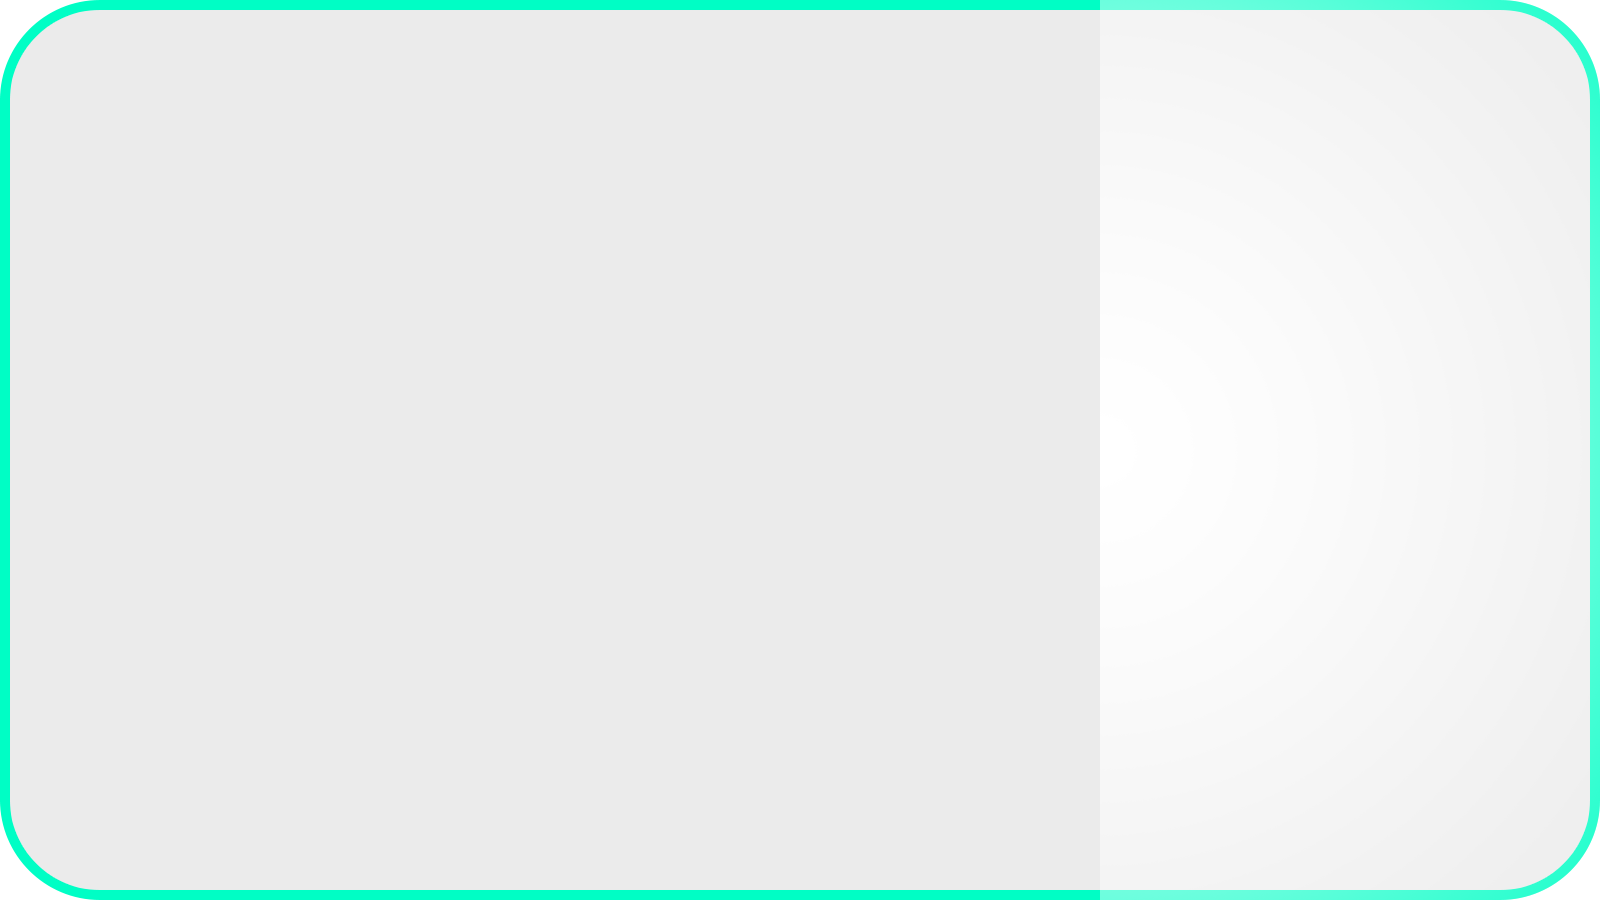
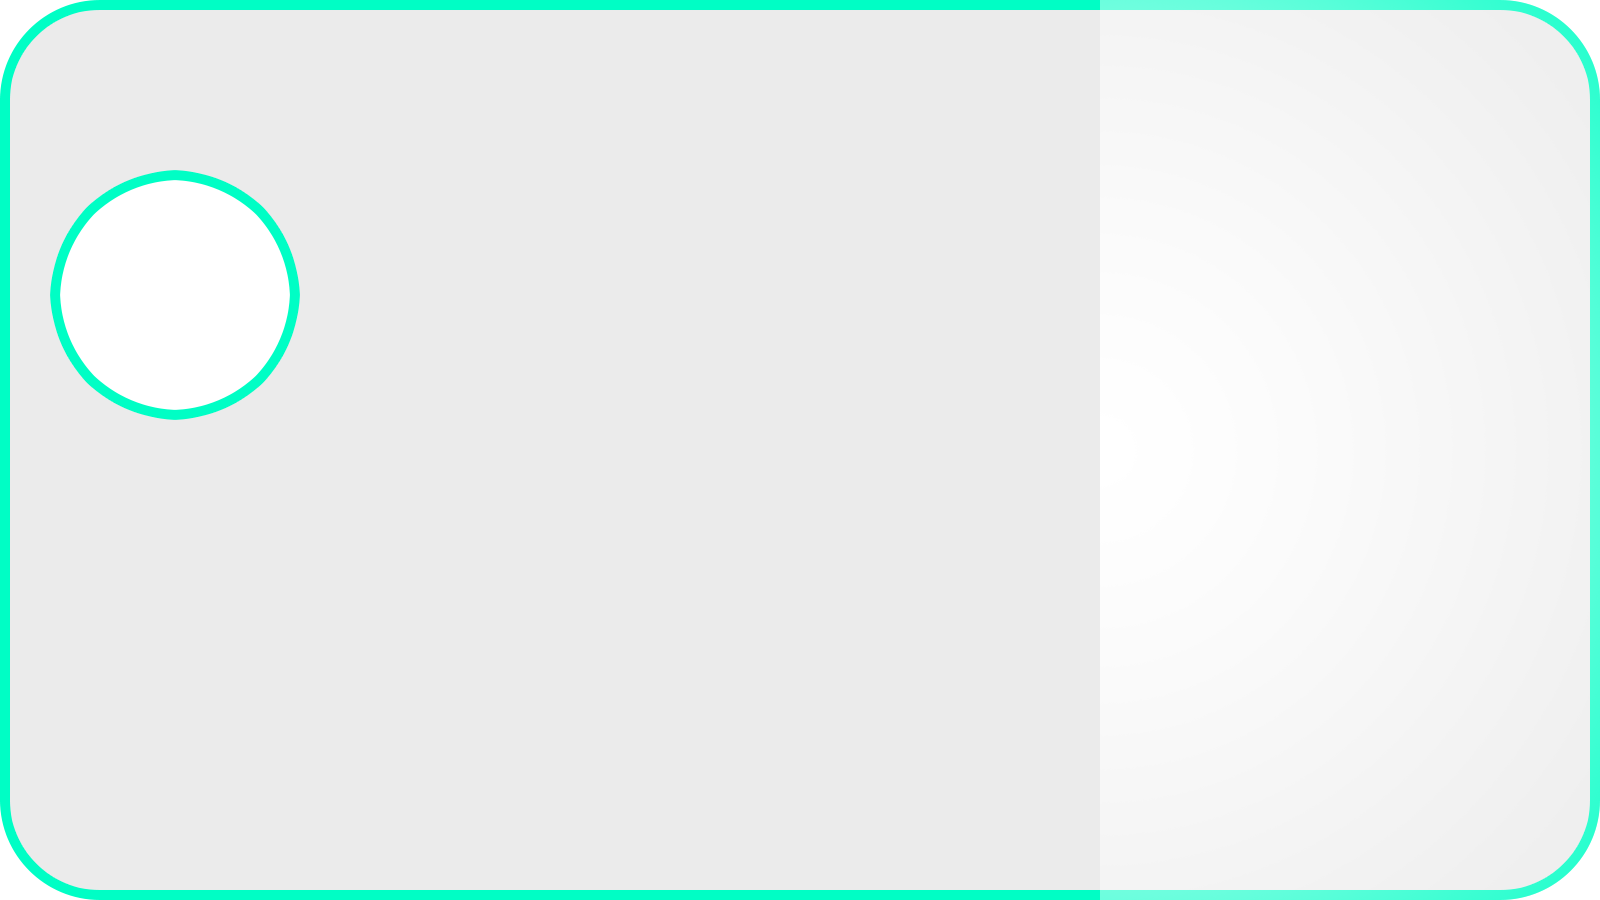
[social] profile complete

diff --git a/cogs/social.py b/cogs/social.py
@@ -7,6 +7,8 @@ import datetime
 
 import numpy as np
 import pymongo
+import gridfs
+import requests
 import discord
 from discord.ext import commands
 from PIL import Image
@@ -34,7 +36,9 @@ class SocialFeatures(commands.Cog):
     async def _profile(self, ctx, member: typing.Optional[discord.Member]):
         if not member: member = ctx.author
         db = mclient.bowser.users
+        fs = gridfs.GridFS(mclient.bowser)
         dbUser = db.find_one({'_id': member.id})
+
         metaFont = ImageFont.truetype('resources/OpenSans-Regular.ttf', 36)
         userFont = ImageFont.truetype('resources/OpenSans-Regular.ttf', 48)
         subtextFont = ImageFont.truetype('resources/OpenSans-Light.ttf', 48)
@@ -42,14 +46,17 @@ class SocialFeatures(commands.Cog):
         smallFont = ImageFont.truetype('resources/OpenSans-Light.ttf', 30)
 
         # Start construction of key features
+        pfp = Image.open(io.BytesIO(await member.avatar_url_as(format='png', size=256).read())).convert("RGBA").resize((250, 250))
+        pfpBack = Image.open('resources/pfp-background.png').convert('RGBA')
+        pfpBack.paste(pfp, (50, 170), pfp)
         card = Image.open('resources/profile-default.png').convert("RGBA")
+        pfpBack.paste(card, mask=card)
+        card = pfpBack
         snoo = Image.open('resources/snoo.png').convert("RGBA")
-        profileBack = Image.open('resources/pfp-placeholder.png').convert("RGBA")
         trophyUnderline = Image.open('resources/trophy-case-underline.png').convert("RGBA")
         gameUnderline = Image.open('resources/favorite-games-underline.png').convert("RGBA")
 
         card.paste(snoo, (50, 50), snoo)
-        card.paste(profileBack, (50, 170), profileBack)
         card.paste(trophyUnderline, (1150, 100), trophyUnderline)
         card.paste(gameUnderline, (60, 645), gameUnderline)
 
@@ -61,21 +68,8 @@ class SocialFeatures(commands.Cog):
         draw.text((440, 470), 'Messages sent', (126, 126, 126), font=smallFont)
         draw.text((800, 470), 'Timezone', (126, 126, 126), font=smallFont)
         draw.text((60, 595), 'Favorite games', (45, 45, 45), font=mediumFont)
-        draw.text((800, 600), 'Looking for group', (126, 126, 126), font=smallFont)
+        #draw.text((800, 600), 'Looking for group', (126, 126, 126), font=smallFont) # TODO: Find a way to see if game is online enabled
         draw.text((1150, 45), 'Trophy case', (45, 45, 45), font=mediumFont)
-
-        # Start customized content -- pfp
-        pfp = Image.open(io.BytesIO(await member.avatar_url_as(format='png', size=256).read())).convert("RGBA").resize((227, 227))
-
-        offset = 0
-        mask = Image.new("L", pfp.size, 0)
-        pfpDraw = ImageDraw.Draw(mask)
-        pfpDraw.ellipse((offset, offset, pfp.size[0] - offset, pfp.size[1] - offset), fill=255)
-
-        result = pfp.copy()
-        result.putalpha(mask)
-
-        card.paste(result, (61, 182), result)
 
         # Start customized content -- userinfo
         memberName = ''
@@ -86,7 +80,6 @@ class SocialFeatures(commands.Cog):
                 memberName += char
 
             else:
-                print('EMOJI')
                 if memberName:
                     W, nameH = draw.textsize(memberName, font=userFont)
                     draw.text((nameW, 215), memberName, (80, 80, 80), font=userFont)
@@ -96,8 +89,6 @@ class SocialFeatures(commands.Cog):
                 charset = tuple(from_unicode(char))
                 unicodePoint = []
                 for x in charset:
-                    print(x)
-                    print(hex(x))
                     unicodePoint.append(hex(x)[2:])
 
                 unicodeChar = '-'.join(unicodePoint)
@@ -109,6 +100,10 @@ class SocialFeatures(commands.Cog):
             draw.text((nameW, 215), memberName, (80, 80, 80), font=userFont)
 
         draw.text((350, 275), '#' + member.discriminator, (126, 126, 126), font=subtextFont)
+
+        if dbUser['regionFlag']:
+            regionImg = Image.open('resources/twemoji/' + dbUser['regionFlag'] + '.png').convert('RGBA')
+            card.paste(regionImg, (976, 50), regionImg)
 
         # Friend code
         if dbUser['friendcode']:
@@ -122,8 +117,11 @@ class SocialFeatures(commands.Cog):
         joinDate = datetime.datetime.utcfromtimestamp(joins[0])
         draw.text((60, 505), joinDate.strftime('%b. %-d, %Y'), (80, 80, 80), font=mediumFont)
 
-        userTz = 'Unknown' if not dbUser['timezone'] else dbUser['timezone']
-        draw.text((800, 505), userTz, (80, 80, 80), font=mediumFont)
+        if not dbUser['timezone']:
+            draw.text((800, 505), 'Not specified', (126, 126, 126), font=mediumFont)
+
+        else:
+            draw.text((800, 505), dbUser['timezone'], (80, 80, 80), font=mediumFont)
 
         # Start trophies
         trophyLocations = {
@@ -164,13 +162,100 @@ class SocialFeatures(commands.Cog):
             card.paste(trophyBadge, trophyLocations[trophyNum], trophyBadge)
             trophyNum += 1
 
+        # Start favorite games
+        setGames = dbUser['favgames']
+        if not setGames:
+            draw.text((60, 665), 'Not specified', (126, 126, 126), font=mediumFont)
+        
+        else:
+            gameIconLocations = {
+                0: (60, 665),
+                1: (60, 730),
+                2: (60, 795)
+            }
+            gameTextLocations = {
+                0: 660,
+                1: 725,
+                2: 791
+            }
+            gameCount = 0
+            gamesDb = mclient.bowser.games
+            for game in setGames:
+                gameDoc = gamesDb.find_one({'_id': game})
+                if fs.exists(game):
+                    gameImg = fs.get(game)
+                    gameIcon = Image.open(gameImg).convert('RGBA').resize((45, 45))
+                    card.paste(gameIcon, gameIconLocations[gameCount], gameIcon)
+
+                else:
+                    websites = gameDoc['websites']
+                    siteUrl = None
+                    if websites['US']: siteUrl = websites['US']
+                    elif websites['CA']: siteUrl = websites['CA']
+                    else:
+                        continue # No non-NA games yet
+                    #elif websites['EU']: siteUrl = websites['EU']
+                    #elif websites['GB']: siteUrl = websites['GB']
+                    #elif websites['AU']: siteUrl = websites['AU']
+                    #elif websites['NZ']: siteUrl = websites['NZ']
+                    #elif websites['JP']: siteUrl = websites['JP']
+                    #elif websites['CH']: siteUrl = websites['CH']
+                    #elif websites['RU']: siteUrl = websites['RU']
+                    #elif websites['ZA']: siteUrl = websites['ZA']
+
+                    try:
+                        gameScrape = await utils.scrape_nintendo(siteUrl)
+
+                    except:
+                        return await ctx.send(f'{config.redTick} An unexpected error has occured while getting game data for the profile, please try again later')
+
+                    r = requests.get(gameScrape['image'], stream=True)
+                    if r.status_code != 200:
+                        return await ctx.send(f'{config.redTick} An unexpected error has occured while getting game data for the profile, please try again later')
+
+                    fs.put(r.raw, _id=game)
+                    gameIcon = Image.open(fs.get(game)).convert('RGBA').resize((45, 45))
+                    card.paste(gameIcon, gameIconLocations[gameCount], gameIcon)
+
+                if gameDoc['titles']['NA']:
+                    gameName = gameDoc['titles']['NA']
+
+                elif gameDoc['titles']['EU']:
+                    gameName = gameDoc['titles']['EU']
+
+                else:
+                    gameName = gameDoc['titles']['JP']
+
+                nameW = 120
+                nameWMax = 950
+
+                for char in gameName:
+                    if nameW >= nameWMax:
+                        draw.text((nameW, gameTextLocations[gameCount]), '...', (80, 80, 80), font=mediumFont)
+                        break
+
+                    draw.text((nameW, gameTextLocations[gameCount]), char, (80, 80, 80), font=mediumFont)
+                    nameW += mediumFont.getsize(char)[0]
+                gameCount += 1
+
         bytesFile = io.BytesIO()
         card.save(bytesFile, format='PNG')
         await ctx.send(file=discord.File(io.BytesIO(bytesFile.getvalue()), filename='profile.png'))
 
     @_profile.command(name='edit')
     async def _profile_edit(self, ctx, code):
-        embed = discord.Embed(title='Edit profile imformation', description='Please click the reaction of the option you would like to edit:\n\n1⃣ Friend code')
+        # People are sneaky and guessing command syntax for unreleased features
+        sneaky = True
+        for role in ctx.author.roles:
+            if role.id == 263764663152541696:
+                sneaky = False
+                break
+
+        if sneaky:
+            import random
+            return await ctx.send(random.choice(['lol no.', 'being sneaky eh?', 'how do you know about a undocumented command?', 'nah bro.', f'{config.redTick} Error: Suc']))
+
+        embed = discord.Embed(title='Edit profile information', description='Please click the reaction of the option you would like to edit:\n\n1⃣ Friend code')
         db = mclient.bowser.users
         db.update_one({'_id': ctx.author.id}, {'$set': {'friendcode': code}})
         return await ctx.send(db.find_one({'_id': ctx.author.id}))
@@ -181,7 +266,7 @@ class SocialFeatures(commands.Cog):
         if not code: return
 
         if message.channel.id == 278544122661306369: # friend-code-bot
-            
+            pass
 
 def setup(bot):
     bot.add_cog(SocialFeatures(bot))
